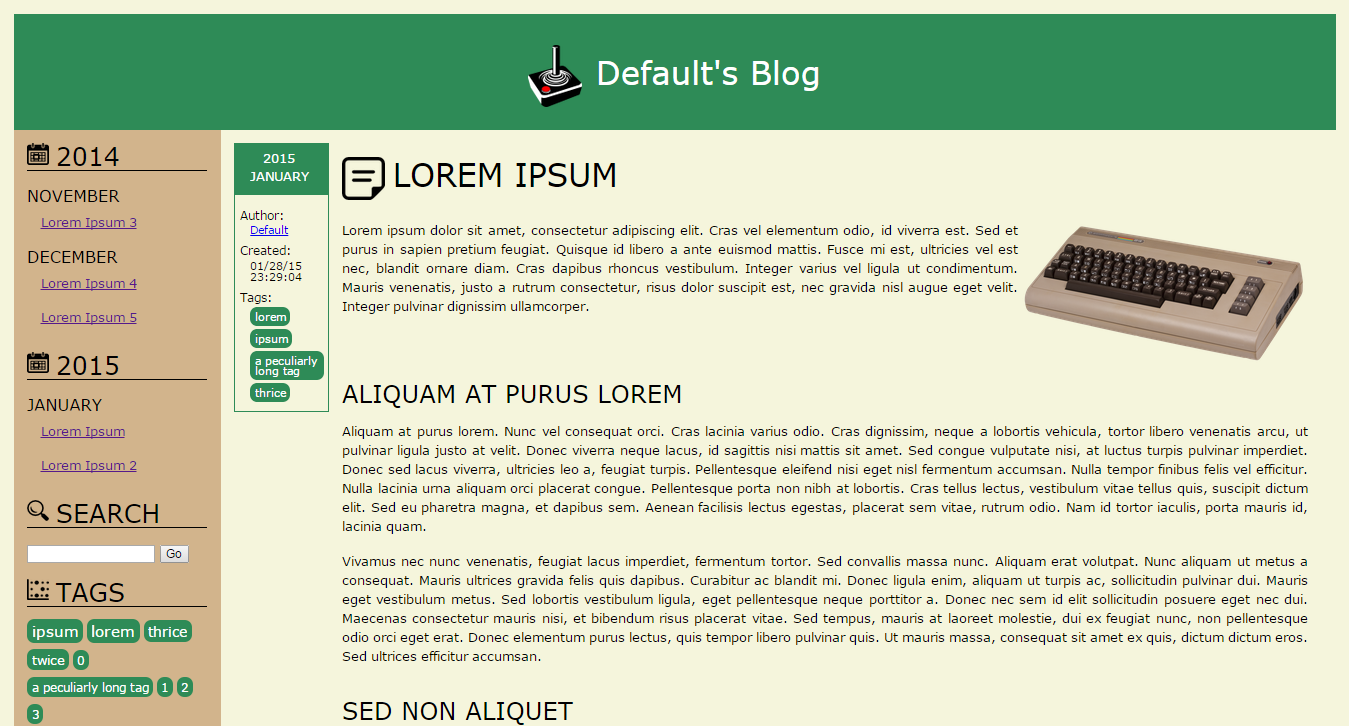
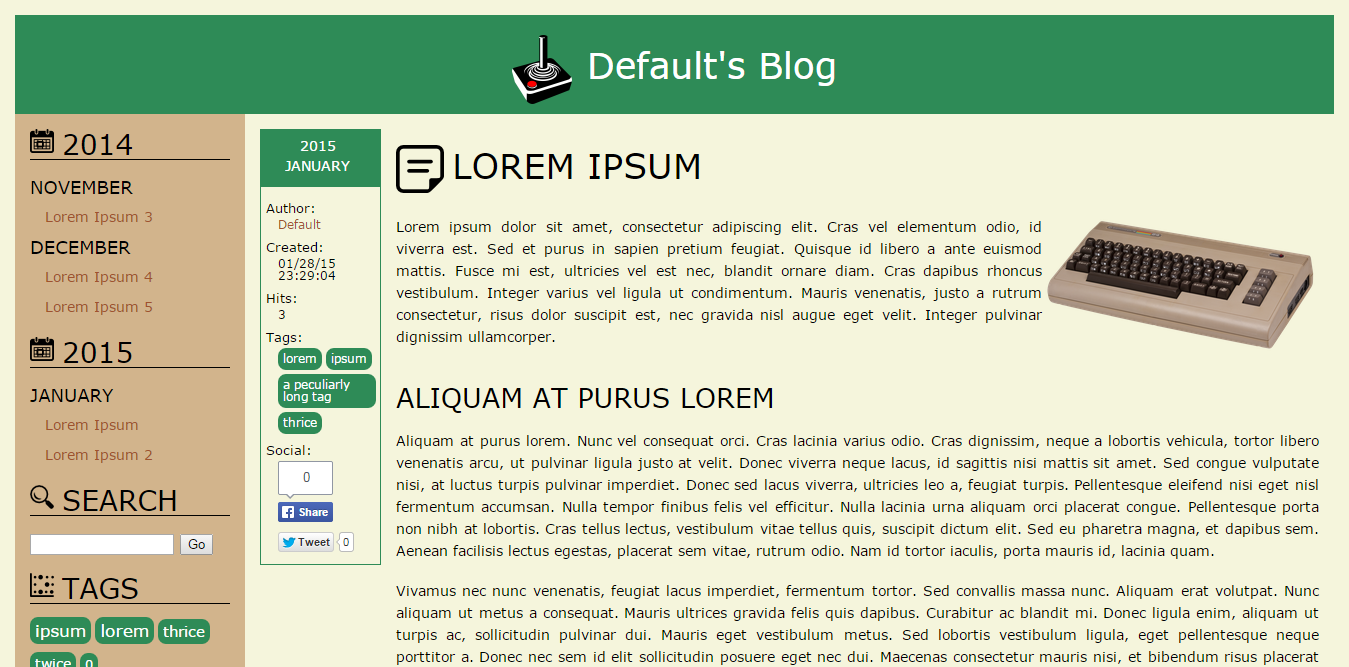
Facebook, twitter share buttons

Changed region(s): [[0.0, 0.06, 0.9963, 1.0], [0.0, 0.0, 0.9963, 0.03]]

diff --git a/css/blog_entry.css b/css/blog_entry.css
@@ -42,6 +42,10 @@
   border:1px solid black;
 }
 
+.blog aside dd div {
+  border:0px;
+}
+
 .blog aside time {
   display:block;
   width:113px;
@@ -110,4 +114,12 @@
   font-size:27px;
   line-height:64px;
   padding:0px 0px 0px 0px;
+}
+
+div.fb-share-button {
+  width:55px;
+}
+
+dd.twitter {
+  max-width:100px;
 }

diff --git a/application/helpers/common_helper.php b/application/helpers/common_helper.php
@@ -1,0 +1,24 @@
+<?php
+
+function link_to_post($id, $title) {
+  return 'home/post/' . $id . '-' . url_title($title);
+}
+
+function tag_weight($count, $max_size = 24) {
+  $weight = 12 + $count;
+  return $weight <= 24 ? $weight : $max_size;
+}
+
+function tag_list($tags, $outer_element = 'dd') {
+  $list = '<' . $outer_element . ' class="tags">';
+  foreach(explode(',', $tags) as $tag) $list = $list . '<div class="tag"><a href="home/search?keyword=' . urlencode($tag) . '&tags">' . $tag . '</a></div>';
+  return $list . '</' . $outer_element . '>';
+}
+
+function fb_share_button($href, $layout = 'box_count') {
+  return '<div class="fb-share-button" data-href="' . $href . '" data-layout="' . $layout . '"></div>';
+}
+
+function twitter_share_button($href) {
+  return '<a href="https://twitter.com/share" class="twitter-share-button" data-url="' . $href . '">Tweet</a>';
+}

diff --git a/application/views/footer.php b/application/views/footer.php
@@ -2,5 +2,7 @@
 
 <div class="page"><div id="footer"><h1>Copyright © <?php echo $author; ?></h1><h2><?php echo strftime('%Y'); ?></h2><h2><a href="https://github.com/goobemaster/php-simple-blog">Generated by: PHP-Simple-Blog</a></h2><h2><a href="http://www.codeigniter.com/">MVC Framework: CodeIgniter</a></h2><h2><a href="http://icons8.com/license/">Free icons: Icons8.com</a></h2></div></div>
 
+<script>!function(d,s,id){var js,fjs=d.getElementsByTagName(s)[0],p=/^http:/.test(d.location)?'http':'https';if(!d.getElementById(id)){js=d.createElement(s);js.id=id;js.src=p+'://platform.twitter.com/widgets.js';fjs.parentNode.insertBefore(js,fjs);}}(document, 'script', 'twitter-wjs');</script>
+
 </body>
 </html>

diff --git a/application/views/panel.php b/application/views/panel.php
@@ -1,20 +1,3 @@
-<?php
-  function link_to_post($id, $title) {
-    return 'home/post/' . $id . '-' . url_title($title);
-  }
-
-  function tag_weight($count, $max_size = 24) {
-    $weight = 12 + $count;
-    return $weight <= 24 ? $weight : $max_size;
-  }
-
-  function tag_list($tags, $outer_element = 'dd') {
-    $list = '<' . $outer_element . ' class="tags">';
-    foreach(explode(',', $tags) as $tag) $list = $list . '<div class="tag"><a href="home/search?keyword=' . urlencode($tag) . '&tags">' . $tag . '</a></div>';
-    return $list . '</' . $outer_element . '>';
-  }
-?>
-
   <nav>
     <div id="posts">
     <?php

diff --git a/application/views/header.php b/application/views/header.php
@@ -41,6 +41,15 @@
     <?php echo $style_override['link_color'] ? 'a, a:visited { color:' . $style_override['link_color'] . ';}' : ''; ?>
   </style>
   <?php } ?>
+
+  <div id="fb-root"></div>
+  <script>(function(d, s, id) {
+      var js, fjs = d.getElementsByTagName(s)[0];
+      if (d.getElementById(id)) return;
+      js = d.createElement(s); js.id = id;
+      js.src = "//connect.facebook.net/en_GB/sdk.js#xfbml=1&version=v2.0";
+      fjs.parentNode.insertBefore(js, fjs);
+    }(document, 'script', 'facebook-jssdk'));</script>
 </head>
 
 <body>

diff --git a/application/views/blog.php b/application/views/blog.php
@@ -13,6 +13,7 @@
       <?php if ($blog->tags) { ?>
       <dt>Tags:</dt><?php echo tag_list($blog->tags); ?>
       <?php } ?>
+      <dt>Social:</dt><dd><?php echo fb_share_button(link_to_post($blog->id, $blog->title)); ?></dd><dd class="twitter"><?php echo twitter_share_button(link_to_post($blog->id, $blog->title)); ?></dd>
     </dl>
     </div>
   </aside>

diff --git a/application/controllers/home.php b/application/controllers/home.php
@@ -7,6 +7,7 @@ class Home extends CI_Controller {
     parent::__construct();
 
     $this->load->helper('url');
+    $this->load->helper('common');
     $this->load->model('Configuration', '', TRUE);
     $this->load->model('Blog', '', TRUE);
 
